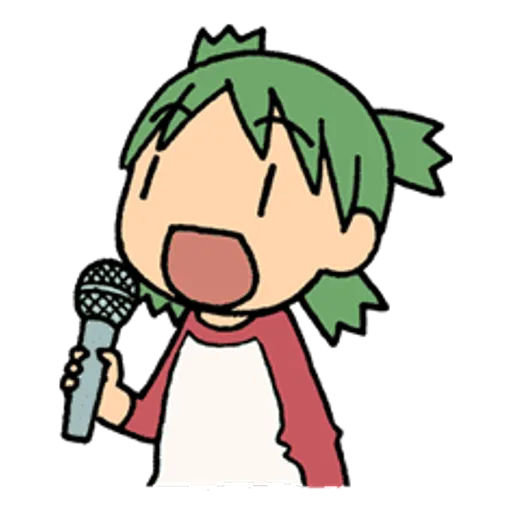
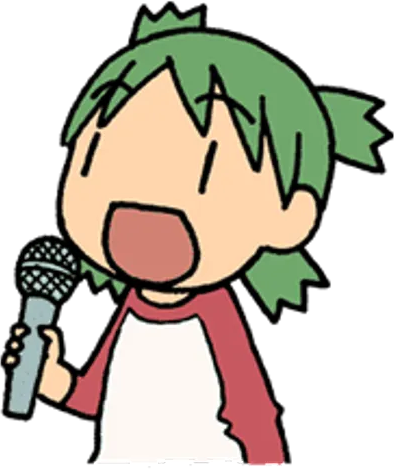
basically done with the ui

diff --git a/ui.py b/ui.py
@@ -6,6 +6,7 @@ from last_fm_data import GrabArtist
 
 
 
+
 print('poopy')
 
 customtkinter.set_appearance_mode("dark")
@@ -301,39 +302,137 @@ class LastFmFrame(CTkFrame):
 class SpotifyFrame(CTkFrame):
     def __init__(self, master):
         super().__init__(master)
-        self.clover = CTkImage(Image.open('./images/awesome.png'), size=(20,20))
 
-        # label = CTkLabel(self, text="Spotify Frame")
-        # label.pack()
+
+        def send_to_spotify(user_choice, method):
+            artists = user_choice.split('\n')
+            artists.pop()
+            print(artists)
+            
+
+
+
+
+        yotsuba_singing_image = CTkImage(Image.open("./images/yotsuba_singing.png"), size=(130, 160))
+        self.clover = CTkImage(Image.open('./images/awesome.png'), size=(20,20))
+        self.danbo_face_image = CTkImage(Image.open("./images/button.png"), size=(30, 20))
+
+
+
         self.configure(corner_radius=25)
 
-        def Upload_action(self):
-            self.filename = filedialog.askopenfilename()
-            print('Selected:', self.filename)
+        def Upload_action():
+            filename = filedialog.askopenfilename()
+            print('Selected:', filename)
+            return filename
 
+        def select_file(file_type):
+            if file_type == 'txt':
+                global selected_text
+                selected_text = Upload_action()
+                if selected_text:
+                    with open (selected_text) as file:
+                        self.artists = file.readlines()
+                        
+                        try:
+                            self.placing_artists_on_screen = CTkLabel(self, text=f'artists:\n\n{self.artists[0]}\n{self.artists[1]}\n{self.artists[2]}\n...woah so many')
+                            self.placing_artists_on_screen.place(anchor='center', relx=0.25, y=250)
+                        except IndexError:
+                            self.placing_artists_on_screen = CTkLabel(self, text=f'artists: \n\n not that many artists!\n but we will work with it!')
+                            self.placing_artists_on_screen.place(anchor='center', relx=0.25, y=250)
+                        
 
-
-        yotsuba_singing_image = CTkImage(Image.open("./images/yotsuba_singing.png"), size=(200, 200))
+        
         yotsuba_singing = CTkLabel(self, image=yotsuba_singing_image,
                                    text='', fg_color='transparent' )
 
-        yotsuba_singing.place(relx=0.5, y=200)
+        yotsuba_singing.place(relx=0.55, y=225)
+
+        
+
+
 
 
 
         def segmented_button_value(value):
             if value == 'automatic':
-                choose_file = CTkLabel(self, text='Choose your file!',
-                               fg_color = 'transparent')
-                choose_file.place(anchor='center', relx=0.5, y=100)
 
-                attach_file = CTkButton(self, text='', border_color='green',
+
+
+                self.choose_file = CTkLabel(self, text='Choose your file!',
+                               fg_color = 'transparent')
+                self.choose_file.place(anchor='center', relx=0.25, y=100)
+
+                self.attach_file = CTkButton(self, text='', border_color='green',
                                         border_width = 1, width=60, height=40,
                                         fg_color='transparent', 
-                                        image=self.clover)
-                attach_file.place(anchor='center', relx=0.5, y=140)
+                                        image=self.clover,
+                                        command= lambda: select_file('txt'))
+                self.attach_file.place(anchor='center', relx=0.25, y=140)
+
+
+
+                self.send_artists = CTkLabel(self, text='Start search!', 
+                                        fg_color = 'transparent')
+                self.send_artists.place(anchor='center', relx=0.75, y=100)
+
+                self.start_search_button = CTkButton(self,
+                                text="", border_color="green", 
+                                border_width=1,
+                                image=self.danbo_face_image, 
+                                width=60, height=40,
+                                )
+                self.start_search_button.place(anchor='center', relx=0.75, y=140)
+                
+
+                try:
+                    self.user_entry.place_forget()
+                    self.start_search_user_input.place_forget()
+                    self.write_it_down.place_forget()
+                except AttributeError:
+                    print('well this doesnt exist yet')
+
+
             else:
-                print('poo')
+
+                    
+                try:
+                    self.placing_artists_on_screen.place_forget()
+                except AttributeError:
+                    print('this doesnt exist yet!')
+                try:
+                    self.choose_file.place_forget()
+                    self.attach_file.place_forget()
+                    self.send_artists.place_forget()
+                    self.start_search_button.place_forget()
+                except AttributeError:
+                    print('well this doesnt either')
+            
+                
+
+
+                self.write_it_down = CTkLabel(self, text='write it yourself then!',
+                               fg_color = 'transparent')
+                self.write_it_down.place(anchor='center', relx=0.5, y=90)
+
+                
+                self.user_entry = CTkTextbox(self, width=200, height=100, border_width=3, font=('Arial', 10, 'bold'))
+                self.user_entry.place(relx=0.5, y=150, anchor='center')
+
+                
+
+                self.start_search_user_input = CTkButton(self,
+                                text="", border_color="green", 
+                                border_width=1,
+                                image=self.danbo_face_image, 
+                                width=60, height=40,
+                                command= lambda: send_to_spotify(self.user_entry.get('1.0', 'end'), method='manual'))
+                self.start_search_user_input.place(anchor='center', relx=0.3, y=230)
+
+
+
+
+
         
         
         methods = CTkSegmentedButton(self, 
